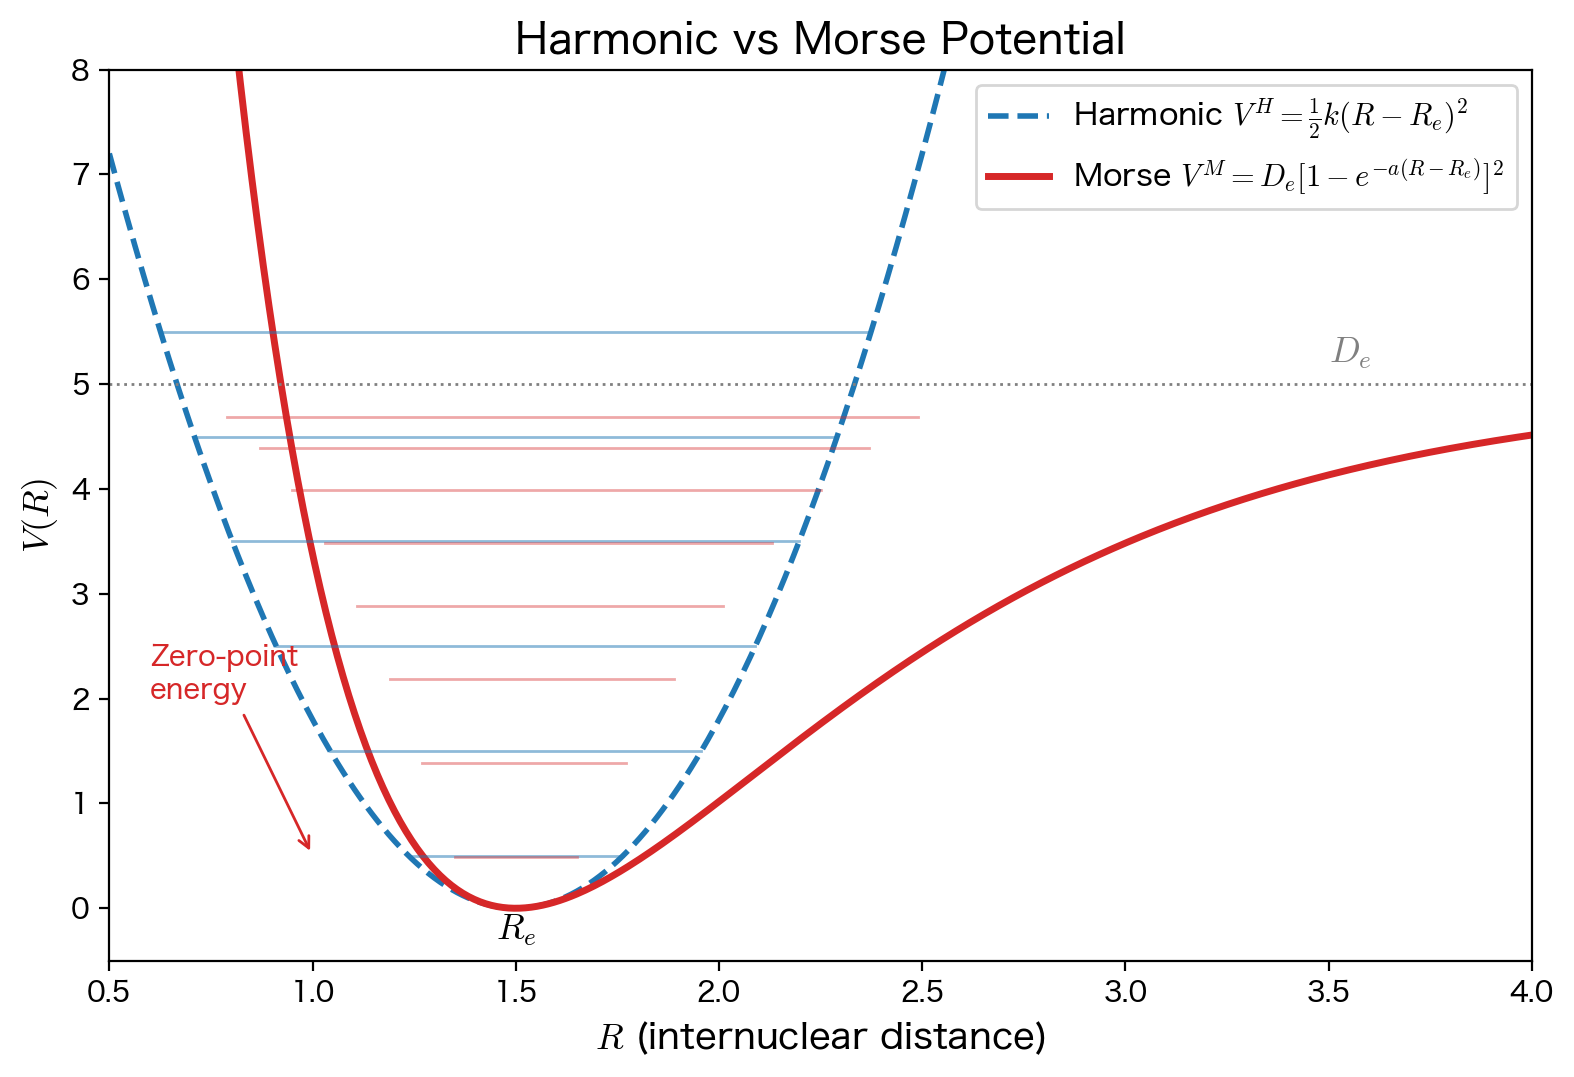
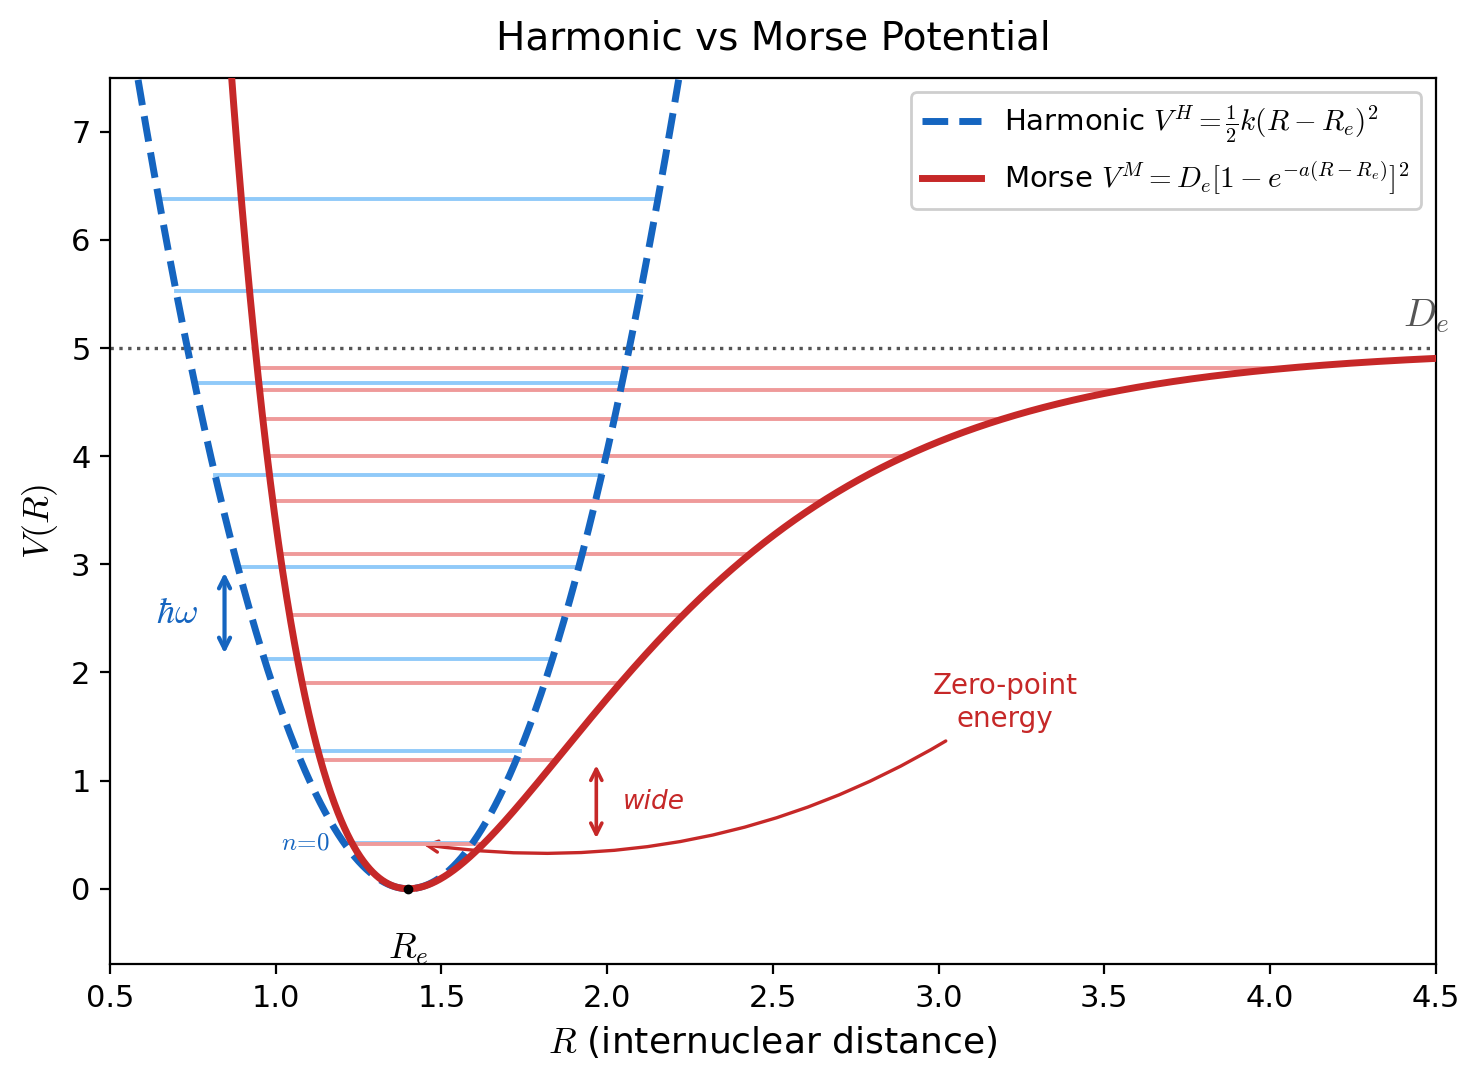
fix: redraw Morse vs Harmonic plot with correct level structure
- Decouple a and omega parameters for proper visualization
- Energy levels clipped to potential curves (not floating)
- Harmonic: 8 equally-spaced levels with hbar*omega annotation
- Morse: 10 levels with visible spacing convergence (wide/narrow labels)
- De asymptote clearly visible, zero-point energy labeled
- Added plot script for reproducibility

diff --git a/物理化学6/figures/plot_morse_harmonic.py b/物理化学6/figures/plot_morse_harmonic.py
@@ -1,0 +1,181 @@
+import numpy as np
+import matplotlib.pyplot as plt
+import matplotlib
+matplotlib.rcParams['mathtext.fontset'] = 'cm'
+
+# === Parameters (decoupled for visualization) ===
+Re = 1.4       # equilibrium distance
+De = 5.0       # Morse dissociation energy
+a_morse = 1.5  # Morse width (controls well shape, fixed independently)
+# Harmonic force constant matched to Morse at bottom: k = 2*De*a^2
+k = 2 * De * a_morse**2  # = 22.5
+# omega for energy levels (artificial unit system, NOT from k)
+# Want ~7-8 harmonic levels below display max (~7)
+omega = 0.85
+
+R = np.linspace(0.4, 4.5, 3000)
+
+# Potentials
+V_harm = 0.5 * k * (R - Re)**2
+V_morse = De * (1 - np.exp(-a_morse * (R - Re)))**2
+
+# === Figure ===
+fig, ax = plt.subplots(figsize=(7.5, 5.5))
+
+# Clip harmonic for display
+ymax = 7.5
+V_harm_clip = np.where(V_harm <= ymax, V_harm, np.nan)
+
+# Plot potentials
+ax.plot(R, V_harm_clip, '--', color='#1565C0', lw=2.5,
+        label=r'Harmonic $V^H = \frac{1}{2}k(R-R_e)^2$', zorder=5)
+ax.plot(R, V_morse, '-', color='#C62828', lw=2.5,
+        label=r'Morse $V^M = D_e[1-e^{-a(R-R_e)}]^2$', zorder=5)
+
+# De line
+ax.axhline(De, color='#555555', ls=':', lw=1.2, zorder=1)
+ax.text(4.4, De + 0.12, r'$D_e$', ha='left', va='bottom', fontsize=14,
+        color='#555555', fontweight='bold')
+
+
+def find_crossings(R_arr, V_arr, E_val):
+    crossings = []
+    for i in range(len(R_arr) - 1):
+        if (V_arr[i] - E_val) * (V_arr[i+1] - E_val) < 0:
+            rc = R_arr[i] + (E_val - V_arr[i]) / (V_arr[i+1] - V_arr[i]) * (R_arr[i+1] - R_arr[i])
+            crossings.append(rc)
+    return crossings
+
+
+# === Harmonic energy levels ===
+harm_levels = []
+for n in range(20):
+    E = (n + 0.5) * omega
+    if E > ymax - 0.3:
+        break
+    harm_levels.append((n, E))
+
+for n, E in harm_levels:
+    cr = find_crossings(R, V_harm, E)
+    if len(cr) >= 2:
+        ax.plot([cr[0], cr[-1]], [E, E], '-', color='#90CAF9', lw=1.4, zorder=4)
+
+# === Morse energy levels ===
+morse_levels = []
+for n in range(50):
+    E = (n + 0.5) * omega - (n + 0.5)**2 * omega**2 / (4 * De)
+    # Check if next level would be lower (past dissociation)
+    E_next = (n + 1.5) * omega - (n + 1.5)**2 * omega**2 / (4 * De)
+    if E >= De or E < 0:
+        break
+    morse_levels.append((n, E))
+    if E_next <= E:
+        break
+
+for n, E in morse_levels:
+    cr = find_crossings(R, V_morse, E)
+    if len(cr) >= 2:
+        ax.plot([cr[0], cr[-1]], [E, E], '-', color='#EF9A9A', lw=1.4, zorder=4)
+
+# === Annotation: harmonic equal spacing ===
+# Between n=2 and n=3 (middle of the well, clearly visible)
+if len(harm_levels) >= 4:
+    E2 = harm_levels[2][1]
+    E3 = harm_levels[3][1]
+    cr2 = find_crossings(R, V_harm, E2)
+    if cr2 and len(cr2) >= 2:
+        x_a = cr2[0] - 0.12
+        ax.annotate('', xy=(x_a, E3), xytext=(x_a, E2),
+                    arrowprops=dict(arrowstyle='<->', color='#1565C0', lw=1.5,
+                                   shrinkA=2, shrinkB=2), zorder=6)
+        ax.text(x_a - 0.08, (E2 + E3) / 2, r'$\hbar\omega$',
+                ha='right', va='center', fontsize=13, color='#1565C0',
+                fontweight='bold')
+
+# === Annotation: Morse spacing narrows ===
+if len(morse_levels) >= 4:
+    # Low pair: n=0 and n=1
+    Em0 = morse_levels[0][1]
+    Em1 = morse_levels[1][1]
+    cr_m1 = find_crossings(R, V_morse, Em1)
+
+    # High pair: second-to-last and last
+    n_top = len(morse_levels) - 1
+    Em_top1 = morse_levels[n_top - 1][1]
+    Em_top = morse_levels[n_top][1]
+    cr_mtop = find_crossings(R, V_morse, Em_top)
+
+    if cr_m1 and len(cr_m1) >= 2:
+        x_lo = cr_m1[-1] + 0.12
+        ax.annotate('', xy=(x_lo, Em1), xytext=(x_lo, Em0),
+                    arrowprops=dict(arrowstyle='<->', color='#C62828', lw=1.3,
+                                   shrinkA=2, shrinkB=2), zorder=6)
+        ax.text(x_lo + 0.08, (Em0 + Em1) / 2, 'wide',
+                ha='left', va='center', fontsize=9.5, color='#C62828',
+                style='italic')
+
+    if cr_mtop and len(cr_mtop) >= 2:
+        x_hi = cr_mtop[-1] + 0.12
+        ax.annotate('', xy=(x_hi, Em_top), xytext=(x_hi, Em_top1),
+                    arrowprops=dict(arrowstyle='<->', color='#C62828', lw=1.3,
+                                   shrinkA=2, shrinkB=2), zorder=6)
+        ax.text(x_hi + 0.08, (Em_top1 + Em_top) / 2, 'narrow',
+                ha='left', va='center', fontsize=9.5, color='#C62828',
+                style='italic')
+
+# === Zero-point energy ===
+E0 = morse_levels[0][1]
+cr0 = find_crossings(R, V_morse, E0)
+if cr0 and len(cr0) >= 2:
+    mid_r = (cr0[0] + cr0[-1]) / 2
+    ax.annotate('Zero-point\nenergy',
+                xy=(mid_r, E0),
+                xytext=(3.2, 1.5),
+                fontsize=10, color='#C62828', ha='center',
+                arrowprops=dict(arrowstyle='->', color='#C62828', lw=1.2,
+                               connectionstyle='arc3,rad=-0.2'))
+
+# === n labels ===
+if harm_levels:
+    cr_h0 = find_crossings(R, V_harm, harm_levels[0][1])
+    if cr_h0:
+        ax.text(cr_h0[0] - 0.04, harm_levels[0][1], r'$n\!=\!0$',
+                ha='right', va='center', fontsize=9, color='#1565C0')
+
+if morse_levels:
+    n_last_m = morse_levels[-1][0]
+    E_last_m = morse_levels[-1][1]
+    cr_lm = find_crossings(R, V_morse, E_last_m)
+    if cr_lm and len(cr_lm) >= 2:
+        ax.text(cr_lm[-1] + 0.04, E_last_m, f'$n\\!=\\!{n_last_m}$',
+                ha='left', va='center', fontsize=9, color='#C62828')
+
+# R_e
+ax.plot(Re, 0, 'k.', ms=5, zorder=6)
+ax.text(Re, -0.4, r'$R_e$', ha='center', va='top', fontsize=13)
+
+# Axes
+ax.set_xlabel(r'$R$ (internuclear distance)', fontsize=13)
+ax.set_ylabel(r'$V(R)$', fontsize=13)
+ax.set_title('Harmonic vs Morse Potential', fontsize=14, pad=10)
+ax.set_xlim(0.5, 4.5)
+ax.set_ylim(-0.7, ymax)
+ax.legend(loc='upper right', fontsize=10.5, framealpha=0.95)
+ax.tick_params(labelsize=11)
+
+plt.tight_layout()
+out = '/Users/yuan/grad-exam-physics-chem/物理化学6/figures/morse_vs_harmonic.png'
+plt.savefig(out, dpi=200, bbox_inches='tight', facecolor='white')
+plt.close()
+
+# Print diagnostics
+print(f"Parameters: Re={Re}, De={De}, a={a_morse}, k={k}, omega={omega}")
+print(f"Harmonic levels ({len(harm_levels)}):")
+for n, E in harm_levels:
+    cr = find_crossings(R, V_harm, E)
+    print(f"  n={n}: E={E:.3f}, crossings={[f'{c:.2f}' for c in cr]}")
+print(f"Morse levels ({len(morse_levels)}):")
+for n, E in morse_levels:
+    cr = find_crossings(R, V_morse, E)
+    print(f"  n={n}: E={E:.3f}, crossings={[f'{c:.2f}' for c in cr]}")
+print(f"\nSaved to {out}")
